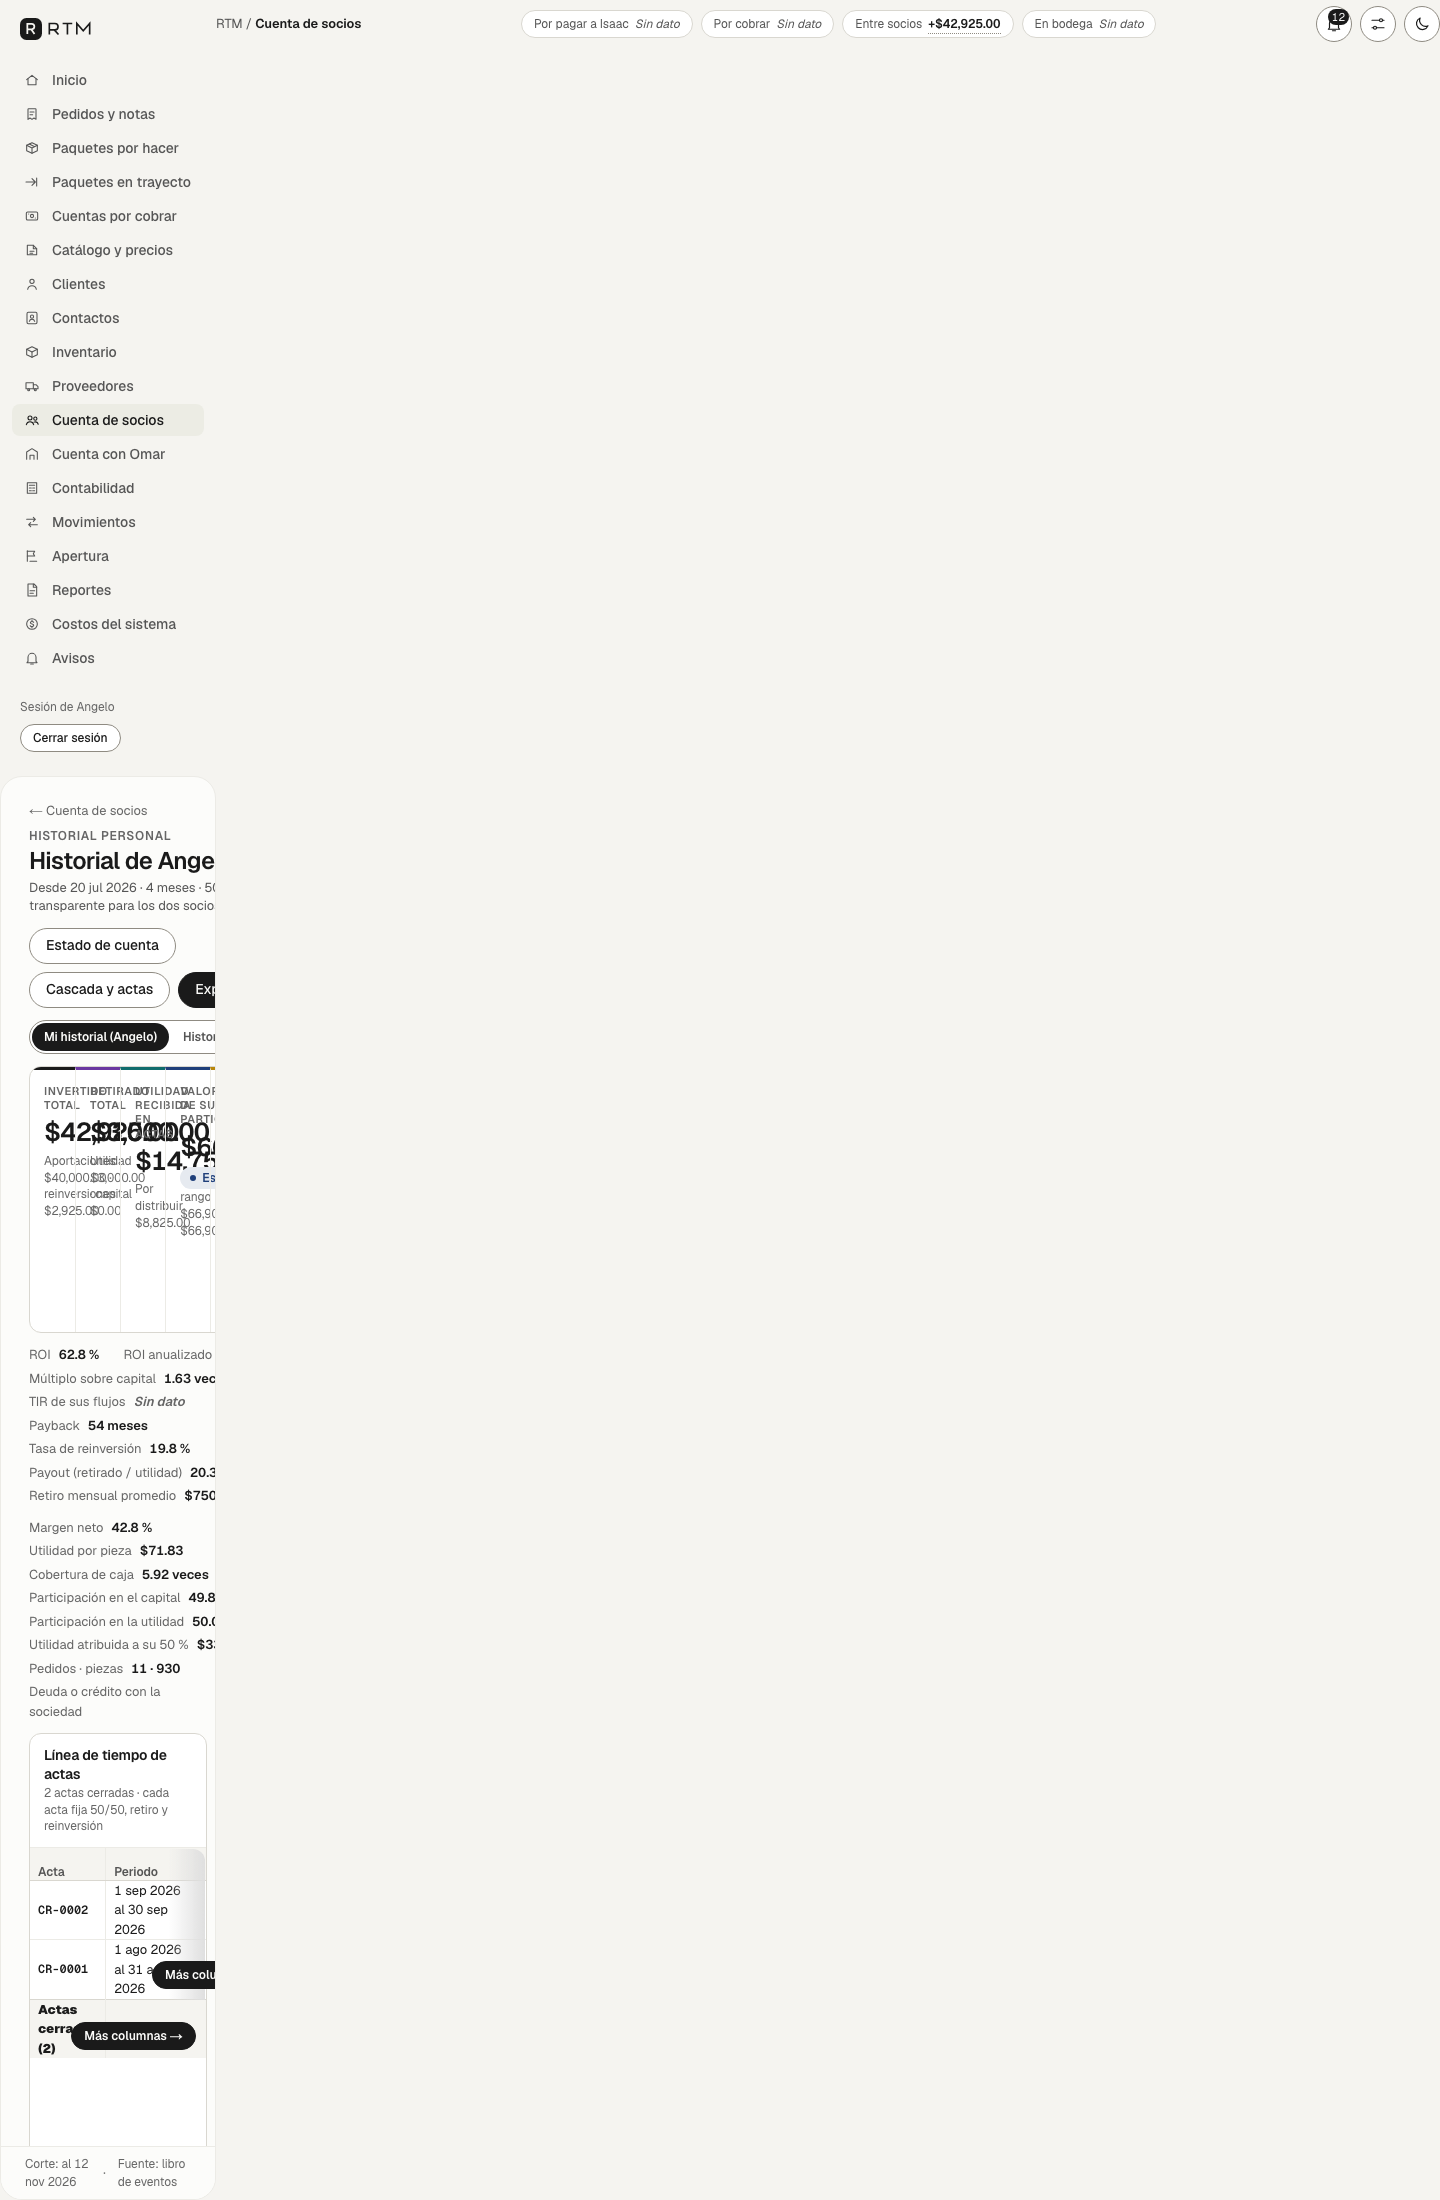
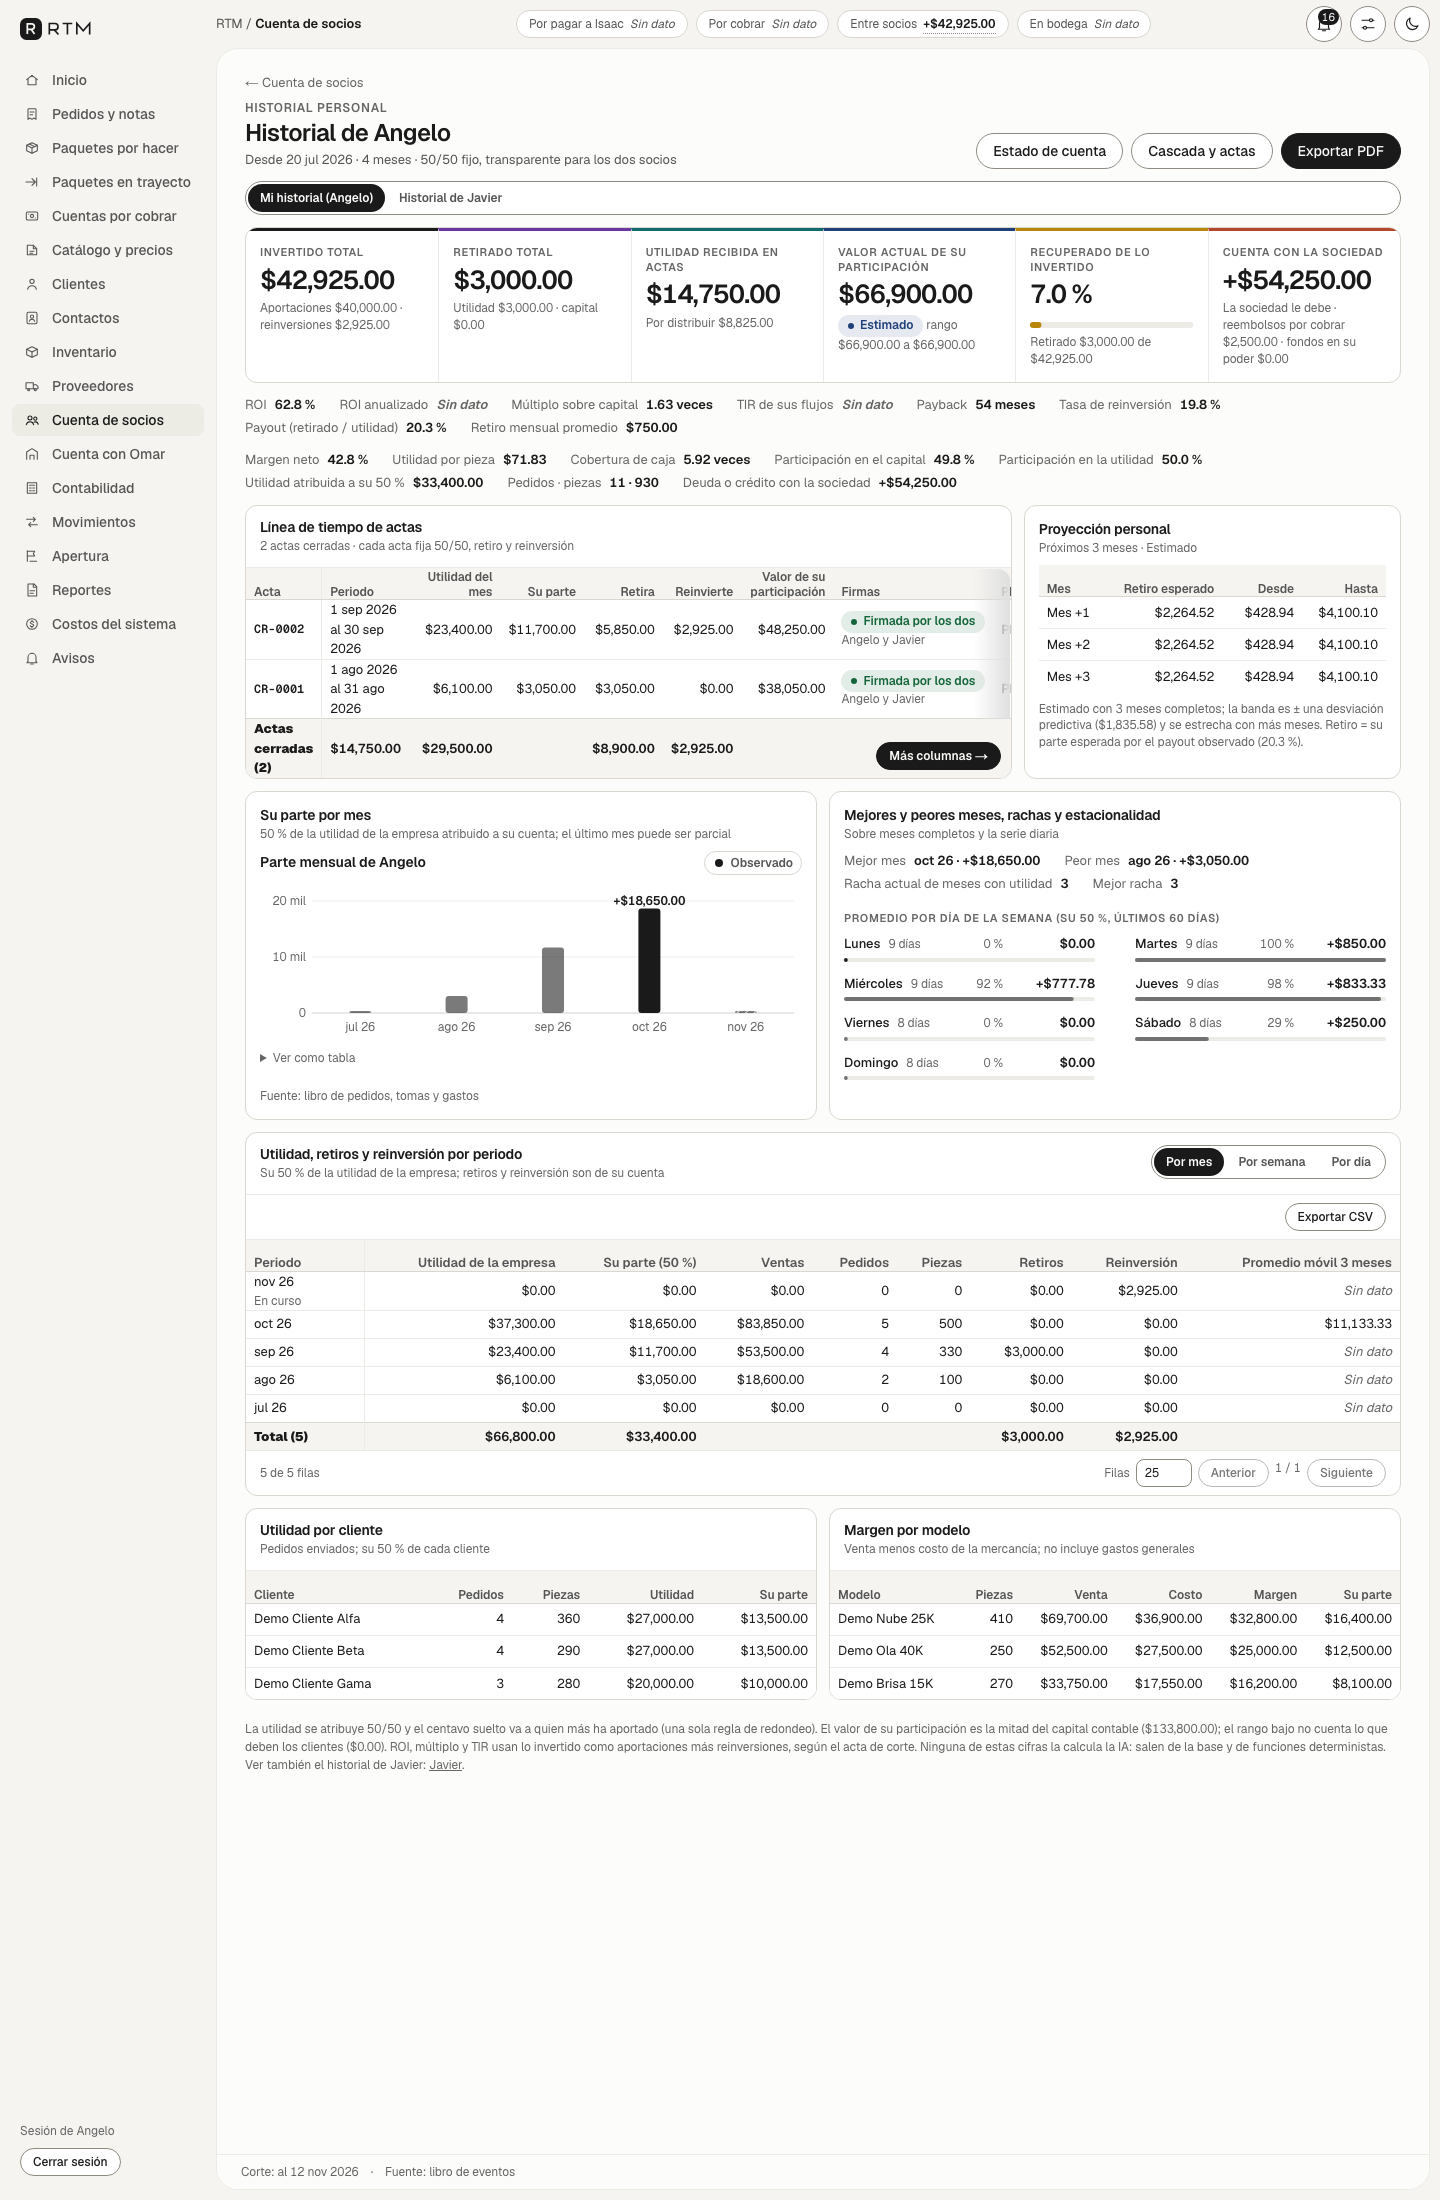
fix(historial): linea de tiempo de actas con periodo legible y rejilla 9-3; capturas regeneradas con el armazon corregido; quita archivos de depuracion

diff --git a/src/app/(socio)/socios/[socio]/historial/page.tsx b/src/app/(socio)/socios/[socio]/historial/page.tsx
@@ -14,10 +14,13 @@ import { FilaRatios, KpiLinea } from '@/ui/componentes/kpi';
 import { EncabezadoPagina, Pagina, Rejilla, Tarjeta } from '@/ui/componentes/pagina';
 import { ColumnasPesos } from '../../../_a3/graficas-pesos';
 import { Dos, Estado, Pie, abs, pct, suma } from '../../../_a3/util';
-import { mesEtiqueta, semanaEtiqueta } from '../../../_a2/util';
+import { fechaCorta, mesEtiqueta, semanaEtiqueta } from '../../../_a2/util';
 import { anosDe, bpAPct, conSigno, m, mesesTexto, razon } from '../../../_historial/util';
 
 export const metadata: Metadata = { title: 'Historial personal' };
+
+/** El dia es el ultimo del mes: el periodo es un mes calendario completo. */
+const mesAlFinal = (f: string): boolean => { const d = new Date(`${f}T00:00:00Z`); d.setUTCDate(d.getUTCDate() + 1); return d.getUTCDate() === 1; };
 
 type Vista = 'mes' | 'semana' | 'dia';
 const VISTAS: { v: Vista; t: string }[] = [{ v: 'mes', t: 'Por mes' }, { v: 'semana', t: 'Por semana' }, { v: 'dia', t: 'Por día' }];
@@ -115,7 +118,7 @@ export default async function PaginaHistorial({ params, searchParams }: { params
         ]}
       />
 
-      <Rejilla dividir="8-4">
+      <Rejilla dividir="9-3">
         <Tarjeta
           plana
           titulo="Línea de tiempo de actas"
@@ -127,11 +130,11 @@ export default async function PaginaHistorial({ params, searchParams }: { params
             densidad="densa" plana primeraFija
             clave={(a) => a.id}
             filas={actas}
-            totales={cerradas.length === 0 ? undefined : { etiqueta: `Actas cerradas (${cerradas.length})`, celdas: { u: m(suma(cerradas.map((a) => a.utilidad_cent))), p: m(suma(cerradas.map((a) => a.parte_cent))), r: m(suma(cerradas.map((a) => a.retira_cent))), i: m(suma(cerradas.map((a) => a.reinvierte_cent))) } }}
+            totales={cerradas.length === 0 ? undefined : { etiqueta: `Total (${cerradas.length})`, celdas: { u: m(suma(cerradas.map((a) => a.utilidad_cent))), p: m(suma(cerradas.map((a) => a.parte_cent))), r: m(suma(cerradas.map((a) => a.retira_cent))), i: m(suma(cerradas.map((a) => a.reinvierte_cent))) } }}
             vacio={{ titulo: 'Sin actas', texto: 'El primer corte mensual firmado por los dos aparece aquí con su PDF.' }}
             columnas={[
               { id: 'f', titulo: 'Acta', ancho: 'm', celda: (a) => <Link href={`/socios/actas/${a.id}`} className="rtm-mono">{a.folio}</Link> },
-              { id: 'p', titulo: 'Periodo', ancho: 'l', celda: (a) => `${etiquetaFecha(a.periodo_ini)} al ${etiquetaFecha(a.periodo_fin)}` },
+              { id: 'p', titulo: 'Periodo', ancho: 'l', celda: (a) => (a.periodo_ini.slice(8) === '01' && a.periodo_ini.slice(0, 7) === a.periodo_fin.slice(0, 7) && mesAlFinal(a.periodo_fin) ? mesEtiqueta(a.periodo_ini) : `${fechaCorta(a.periodo_ini)} al ${fechaCorta(a.periodo_fin)}`) },
               { id: 'u', titulo: 'Utilidad del mes', numerica: true, ancho: 'm', celda: (a) => (a.tipo === 'contra' ? '—' : m(a.utilidad_cent, a.utilidad_cent < 0n)) },
               { id: 'p2', titulo: 'Su parte', numerica: true, ancho: 'm', celda: (a) => (a.tipo === 'contra' ? '—' : m(a.parte_cent)) },
               { id: 'r', titulo: 'Retira', numerica: true, ancho: 'm', celda: (a) => m(a.retira_cent) },

diff --git a/src/app/(socio)/socios/actas/[id]/page.tsx b/src/app/(socio)/socios/actas/[id]/page.tsx
@@ -67,7 +67,7 @@ export default async function PaginaActa({ params }: { params: Promise<{ id: str
               { id: 'ef', etiqueta: 'Efectivo de la sociedad', valor: m(s.efectivo.total_cent), categoria: 1, nota: s.limitado_por_efectivo ? 'Reparto limitado por el efectivo' : `Comprometido ${m(s.efectivo.comprometido_cent)}` },
               { id: 'rp', etiqueta: 'Utilidad repartida 50/50', testid: 'acta-repartible', valor: m(s.repartible_cent), categoria: 7, nota: `Pasa al siguiente periodo ${m(c.arrastre_fin_cent, c.arrastre_fin_cent < 0n)}` },
               { id: 'cc', etiqueta: 'Capital contable resultante', valor: k?.capital_contable_cent == null ? null : m(k.capital_contable_cent), categoria: 4, nota: k ? 'Al cierre del periodo, sellado' : 'Se sella al cerrarse el acta' },
-              { id: 'va', etiqueta: 'Valor de cada participación', valor: k?.valor_participacion_cent == null ? null : `${m(k.valor_participacion_cent.Angelo!)} · ${m(k.valor_participacion_cent.Javier!)}`, categoria: 5, nota: 'Angelo · Javier (estimado en libros)' },
+              { id: 'va', etiqueta: 'Valor de cada participación', valor: k?.valor_participacion_cent == null ? null : m(k.valor_participacion_cent.Angelo!), categoria: 5, nota: k?.valor_participacion_cent == null ? 'Estimado en libros' : `Angelo · Javier ${m(k.valor_participacion_cent.Javier!)} (estimado en libros)` },
             ]}
           />
           <Tarjeta plana titulo="Por socio" descripcion="Su parte 50/50, lo que retira y lo que reinvierte; la reinversión queda como inversión suya">
